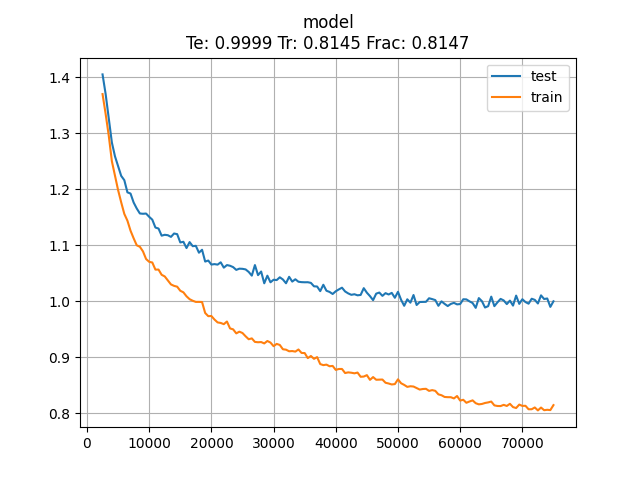
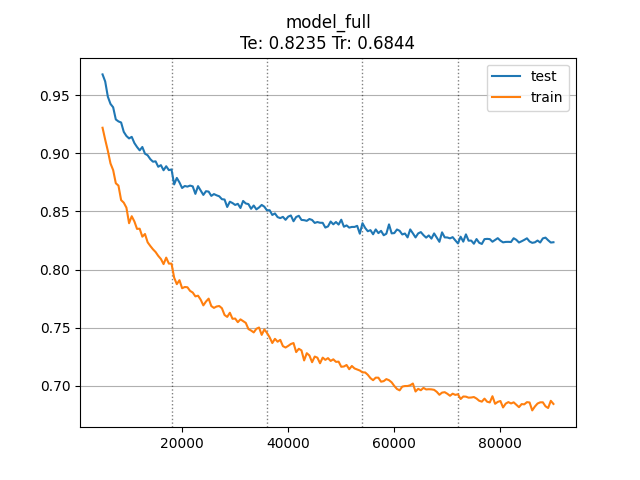
Update training info in readme to match current state

diff --git a/README.md b/README.md
@@ -95,7 +95,19 @@ The raw data from scryfall is cleaned in a way to help the model learn meaningfu
 7. Some plural words are decomposed into the singular version of the word followed by `*s`. (ex: `creatures` -> `creature *s`)
 8. Some verbs are decomposed into a base verb followed by a suffix. (ex: `tapped` -> ``tap `ed``)
 
-## Training Loss
+## Training
 
-A graph of the training loss across train and test sets when trained on the scryfall oracle dump from July 3, 2024:
+The following data was gathered from a full training run of commit `a2b2f876` with the scryfall data from Jan 22, 2025.
+
+### Training Info
+
+Training set: 24912 cards
+Test set: 2492 cards
+Training iterations: 90000
+Batch sizes: 16, 20, 24, 32, 40
+Parameter count: 928960
+
+### Loss
+
+This graph shows both the train and test loss over time. Dotted vertical lines indicate points where the batch size was inceased.
 ![Training Loss](./img/loss.png)
